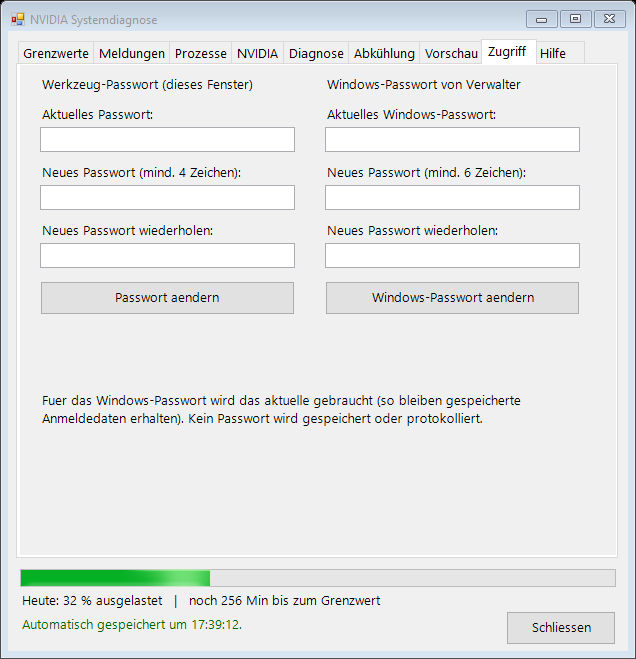
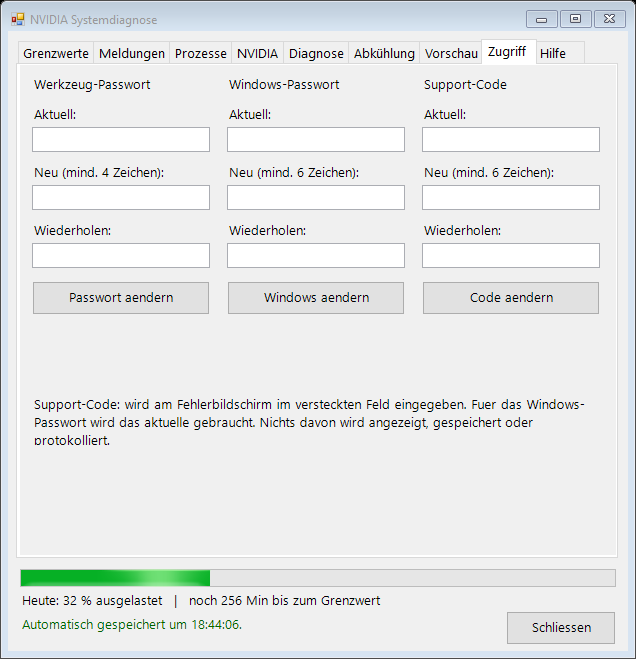
Einstellungs-Fenster: Support-Code (PIN am Fehlerbildschirm) im Reiter Zugriff aenderbar, drei Spalten; Doku angepasst
Claude-Session: https://claude.ai/code/session_01SVPxvBf4UUQ3rPL9ZPB9nD

diff --git a/docs/ANLEITUNG.md b/docs/ANLEITUNG.md
@@ -32,7 +32,7 @@ Alles läuft unter Windows 10/11 mit Windows PowerShell 5.1.
 | Reparatur-Sätze, Terminal-Schrift/-Abstand/-Dauer | Reiter „Diagnose" | mit Vorschau |
 | **Erholung** (ungenutzte Zeit gibt Minuten zurück) | Reiter „Abkühlung" | **standardmäßig an** |
 | Beispielbilder ansehen, alles testen | Reiter „Vorschau" | Test-Knöpfe fragen vorher nach |
-| Werkzeug-Passwort / Windows-Passwort ändern | Reiter „Zugriff" | Windows-Passwort nur mit dem aktuellen |
+| Werkzeug-Passwort / Windows-Passwort / **Support-Code** (PIN am Fehlerbildschirm) ändern | Reiter „Zugriff" | Windows-Passwort und Support-Code nur mit dem aktuellen; Support-Code mind. 6 Zeichen, gilt sofort |
 | Alle Tastenkürzel, Befehle und der Ablauf | Reiter „Hilfe" → Knopf „Info" | |
 | Schriftgröße des Fensters | Reiter „Hilfe" | Größe: Fenster an den Rändern ziehen |
 

diff --git a/docs/GUIDE.en.md b/docs/GUIDE.en.md
@@ -31,7 +31,7 @@ Windows 10/11 with Windows PowerShell 5.1.
 | Repair sentences, terminal font/interval/duration | tab "Diagnose" | with preview |
 | **Recovery** (unused time gives minutes back) | tab "Abkühlung" | **on by default** |
 | See example images, test everything | tab "Vorschau" | test buttons ask first |
-| Change tool password / Windows password | tab "Zugriff" | Windows password only with the current one |
+| Change tool password / Windows password / **support code** (PIN on the error screen) | tab "Zugriff" | Windows password and support code only with the current one; support code at least 6 characters, effective immediately |
 | All key combinations, commands and the sequence | tab "Hilfe" → "Info" button | |
 | Font size of the window | tab "Hilfe" | size: drag the window edges |
 

diff --git a/README.md b/README.md
@@ -174,7 +174,9 @@ NVIDIA-Anzeige bei mir / auf dem Zielkonto). Knöpfe, die auf dem Bildschirm des
 ### Reiter „Zugriff"
 ![Reiter Zugriff](docs/tool-zugriff.png)
 
-Links das Werkzeug-Passwort, rechts das Windows-Passwort von Verwalter.
+Drei Spalten: links das Werkzeug-Passwort, in der Mitte das Windows-Passwort von Verwalter, rechts der **Support-Code** (die PIN für
+das versteckte Feld am Fehlerbildschirm, `pin.json`, mindestens 6 Zeichen, gilt sofort). Beim Support-Code wird der aktuelle Code
+verlangt, die alte Datei wird als `pin.json.bak-vor-aenderung` gesichert. Der Code wird nie angezeigt oder protokolliert.
 
 ### Reiter „Hilfe" mit Info-Knopf
 ![Reiter Hilfe](docs/tool-hilfe.png)

diff --git a/README.en.md b/README.en.md
@@ -170,7 +170,9 @@ here / on the target account). Buttons that run on the target account's screen a
 ### Tab "Zugriff" (access)
 ![Tab Zugriff](docs/tool-zugriff.png)
 
-Left the tool password, right the Windows password of Verwalter.
+Three columns: the tool password on the left, the Windows password of Verwalter in the middle, and the **support code** on the right
+(the PIN for the hidden field on the error screen, `pin.json`, at least 6 characters, effective immediately). Changing the support
+code requires the current code; the old file is backed up as `pin.json.bak-vor-aenderung`. The code is never shown or logged.
 
 ### Tab "Hilfe" (help) with Info button
 ![Tab Hilfe](docs/tool-hilfe.png)
